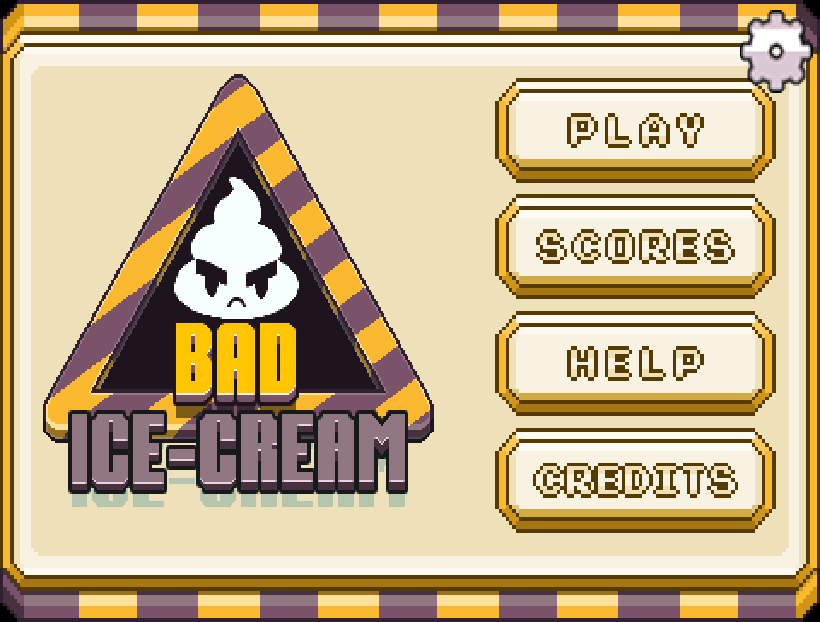
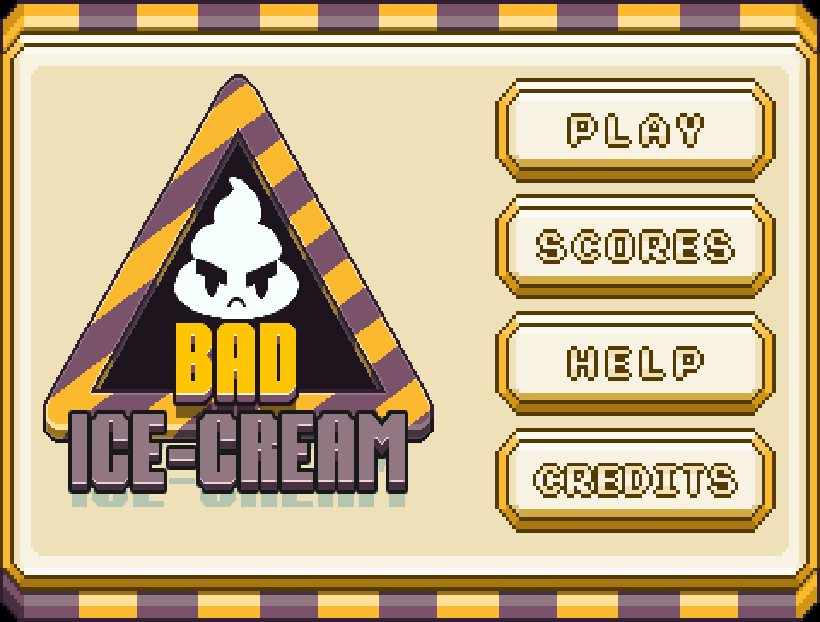
Did a lot of progress. Created the start page, the levels page and all buttons that lead to it

Changed region(s): [[0.8841, 0.0, 1.0, 0.1527]]

diff --git a/main.py b/main.py
@@ -681,19 +681,56 @@ def restart():
     return 0
 
 
-#Instancias do minimenu e derivados
+#Instancias do Minimenu e derivados
 if True:
     icons = [pygame.transform.scale_by(pygame.image.load(f"Resources/minimenu/{i}.png"),3) for i in ["restart","pause","music"]]
     for icon in icons:
         icon.set_colorkey((131, 206, 82, 255))
     rects = []
     continue_button_surf = pygame.image.load("Resources/minimenu/pressed_pause_button.png")
-    continue_button_rect = pygame.Rect(SCREEN_WIDTH//2 - 209//2, SCREEN_HEIGHT//2, 209, 58)
+    continue_button_rect = pygame.Rect(SCREEN_WIDTH//2 - 209//2, SCREEN_HEIGHT//2 - 7, 209, 54)
     back_menu_button_surf = pygame.image.load("Resources/minimenu/pressed_back_menu_button.png")
     back_menu_button_rect = pygame.Rect(296,365,228,54)
     buttons = {continue_button_surf : continue_button_rect, back_menu_button_surf :back_menu_button_rect }
 
 #Instancias do Start e derivados
+if True:
+    play_button_surf = pygame.image.load("Resources/menu/pressed_play_button.png")
+    play_button_rect = pygame.Rect(495, 78, 281, 105)
+
+    scores_button_surf = pygame.image.load("Resources/menu/pressed_scores_button.png")
+    scores_button_rect = pygame.Rect(495, 194, 281, 105)
+
+    help_button_surf = pygame.image.load("Resources/menu/pressed_help_button.png")
+    help_button_rect = pygame.Rect(495, 311, 281, 105)
+
+    credits_button_surf = pygame.image.load("Resources/menu/pressed_credits_button.png")
+    credits_button_rect = pygame.Rect(495, 311 + 117, 281, 105)
+
+    buttons.update({
+        play_button_surf: play_button_rect,
+        scores_button_surf: scores_button_rect,
+        help_button_surf: help_button_rect,
+        credits_button_surf: credits_button_rect
+    })
+
+#Instancias dos Níveis
+if True:
+    lv1_button_surf = pygame.image.load("Resources/levels_interface/pressed_lvl1_button.png")
+    lv1_button_rect = pygame.Rect(268, 101, 93, 89)
+    lv2_button_surf = pygame.image.load("Resources/levels_interface/pressed_lvl2_button.png")
+    lv2_button_rect = pygame.Rect(268 + 92, 101, 93, 89)
+    lv3_button_surf = pygame.image.load("Resources/levels_interface/pressed_lvl3_button.png")
+    lv3_button_rect = pygame.Rect(268 + 93*2 -1, 101, 93, 89)
+    back_button_surf = pygame.image.load("Resources/levels_interface/pressed_back_button.png")
+    back_button_rect = pygame.Rect(301,509,211,101)
+
+    buttons.update({
+        lv1_button_surf: lv1_button_rect,
+        lv2_button_surf: lv2_button_rect,
+        lv3_button_surf: lv3_button_rect,
+        back_button_surf:back_button_rect
+    })
 
 # Montando layout do nível atual
 for k, i in enumerate(lv1_rounds.get(round_atual, [])):
@@ -725,6 +762,8 @@ while True:
                 button.set_alpha(180)
             else:
                 button.set_alpha(0)
+
+        #All buttons system
         if event.type == pygame.MOUSEBUTTONDOWN:
             for j, rect in enumerate(rects):
                 if rect.collidepoint(event.pos):
@@ -732,11 +771,35 @@ while True:
                         restart()
                     elif j == 1 and active_screen == "gaming":
                         active_screen = "paused"
+                    elif j == 1 and active_screen == "paused":
+                        active_screen = "gaming"
                     elif j == 2:
                         # music = False
                         pass
-            if continue_button_rect.collidepoint(event.pos) and active_screen == "paused":
-                active_screen = "gaming"
+            if active_screen == "paused":
+                if continue_button_rect.collidepoint(event.pos) :
+                    active_screen = "gaming"
+                elif back_menu_button_rect.collidepoint(event.pos) :
+                    active_screen = "start"
+            elif active_screen == "start":
+                if play_button_rect.collidepoint(event.pos):
+                    active_screen = "levels"
+                elif scores_button_rect.collidepoint(event.pos):
+                    pass
+                elif help_button_rect.collidepoint(event.pos):
+                    pass
+                elif credits_button_rect.collidepoint(event.pos):
+                    pass
+            elif active_screen == "levels":
+                if lv1_button_rect.collidepoint(event.pos):
+                    active_screen = "gaming"
+                    #current_lvl = 1
+                elif lv2_button_rect.collidepoint(event.pos):
+                    pass
+                elif lv3_button_rect.collidepoint(event.pos):
+                    pass
+                elif back_button_rect.collidepoint(event.pos):
+                    active_screen = "start"
 
     # Gaming State
     if active_screen == "gaming":
@@ -916,10 +979,25 @@ while True:
         screen.blit(continue_button_surf,continue_button_rect)
         screen.blit(back_menu_button_surf,back_menu_button_rect)
 
+    # Start State
     elif active_screen == "start":
         start_interface = pygame.image.load("Resources/menu/start.png")
         start_rect = start_interface.get_rect(center = (SCREEN_WIDTH//2,SCREEN_HEIGHT//2))
         screen.blit(start_interface,start_rect)
+        screen.blit(play_button_surf,play_button_rect)
+        screen.blit(scores_button_surf,scores_button_rect)
+        screen.blit(help_button_surf,help_button_rect)
+        screen.blit(credits_button_surf,credits_button_rect)
+
+    # Levels State
+    elif active_screen == "levels":
+        start_interface = pygame.image.load("Resources/levels_interface/levels.png")
+        start_rect = start_interface.get_rect(center = (SCREEN_WIDTH//2,SCREEN_HEIGHT//2))
+        screen.blit(start_interface,start_rect)
+        screen.blit(lv1_button_surf,lv1_button_rect)
+        screen.blit(lv2_button_surf,lv2_button_rect)
+        screen.blit(lv3_button_surf,lv3_button_rect)
+        screen.blit(back_button_surf,back_button_rect)
 
     # Update the screen
     pygame.display.update()
